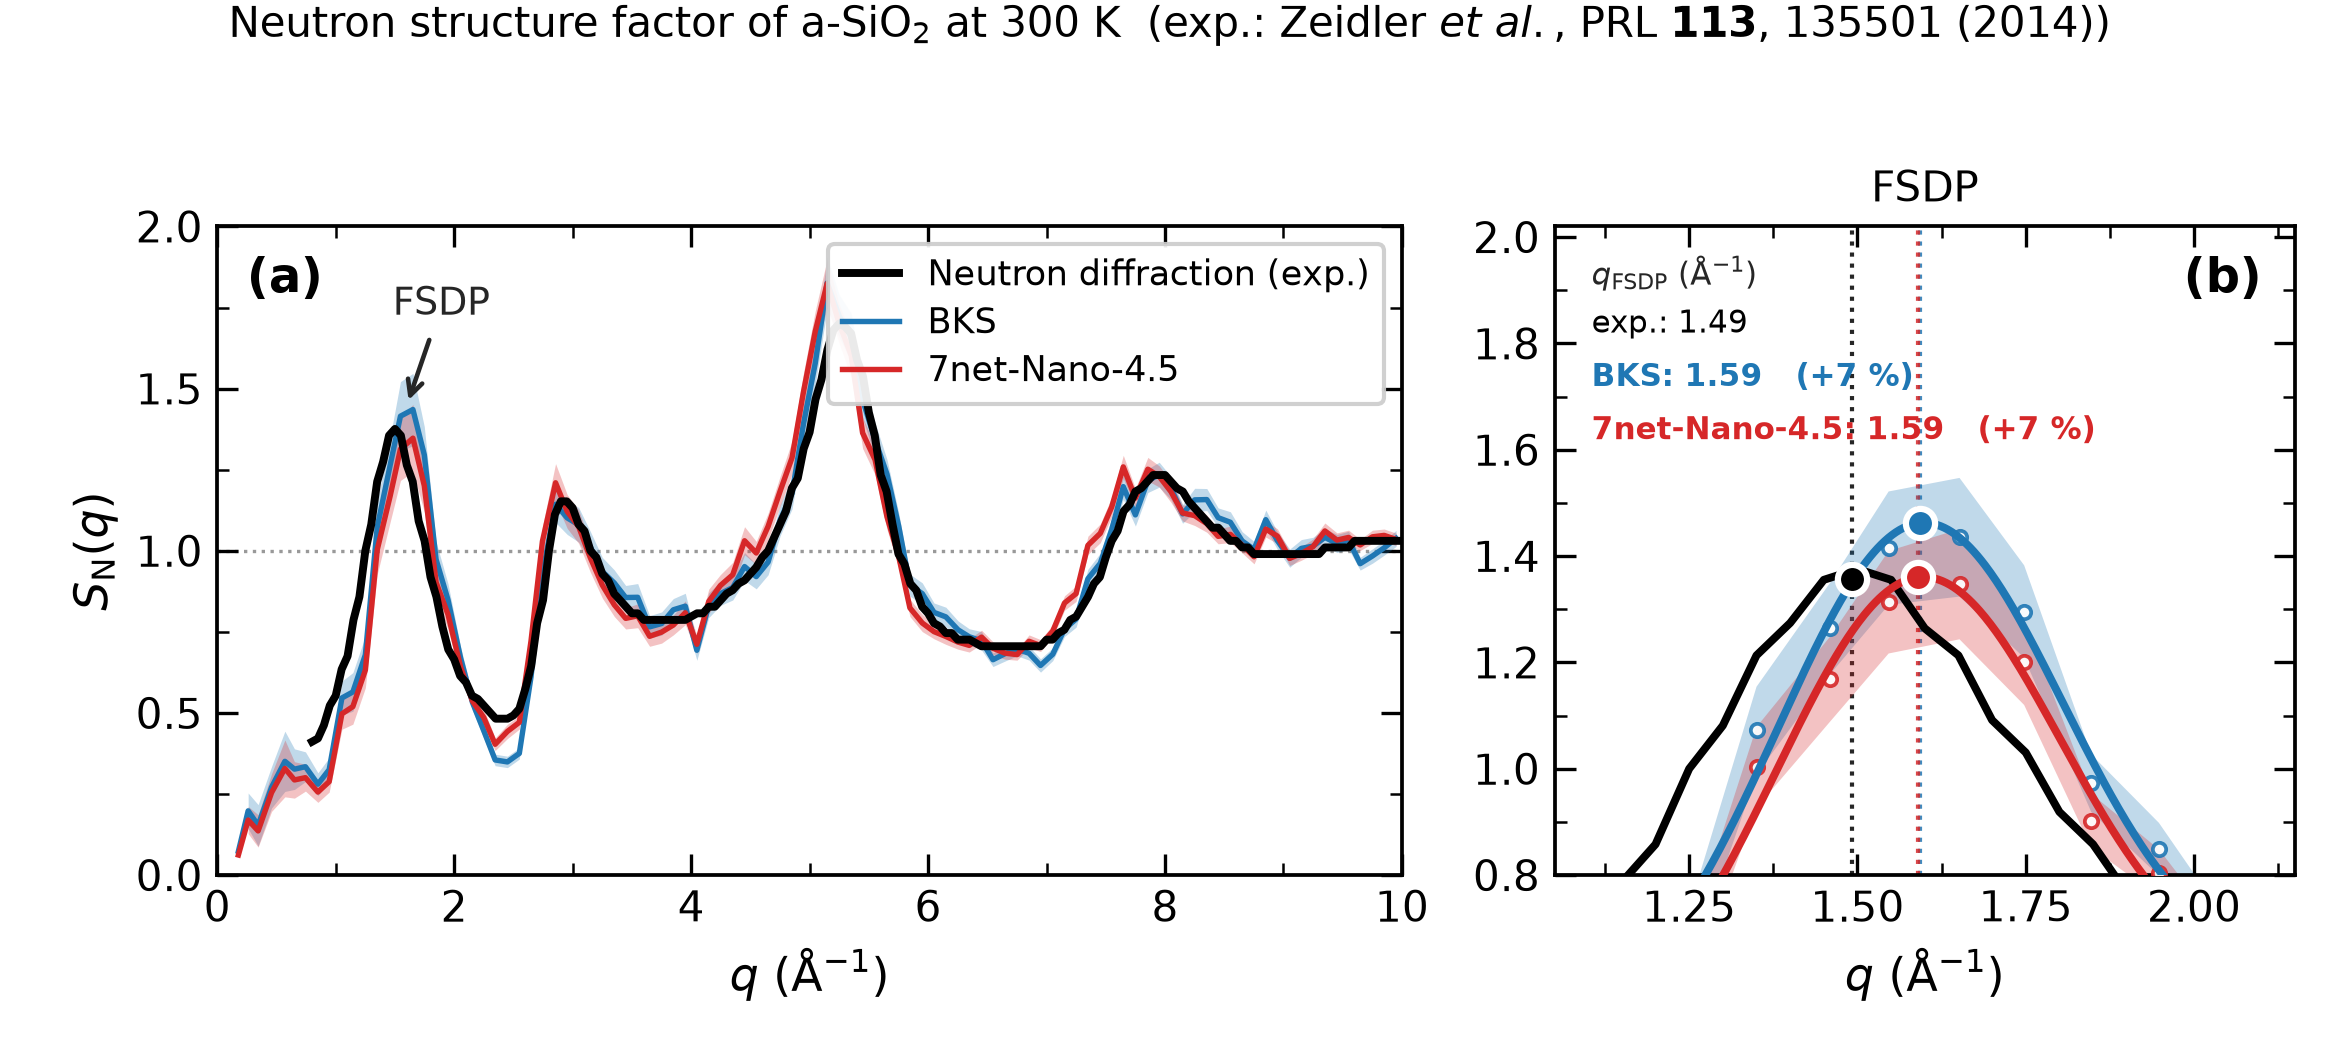
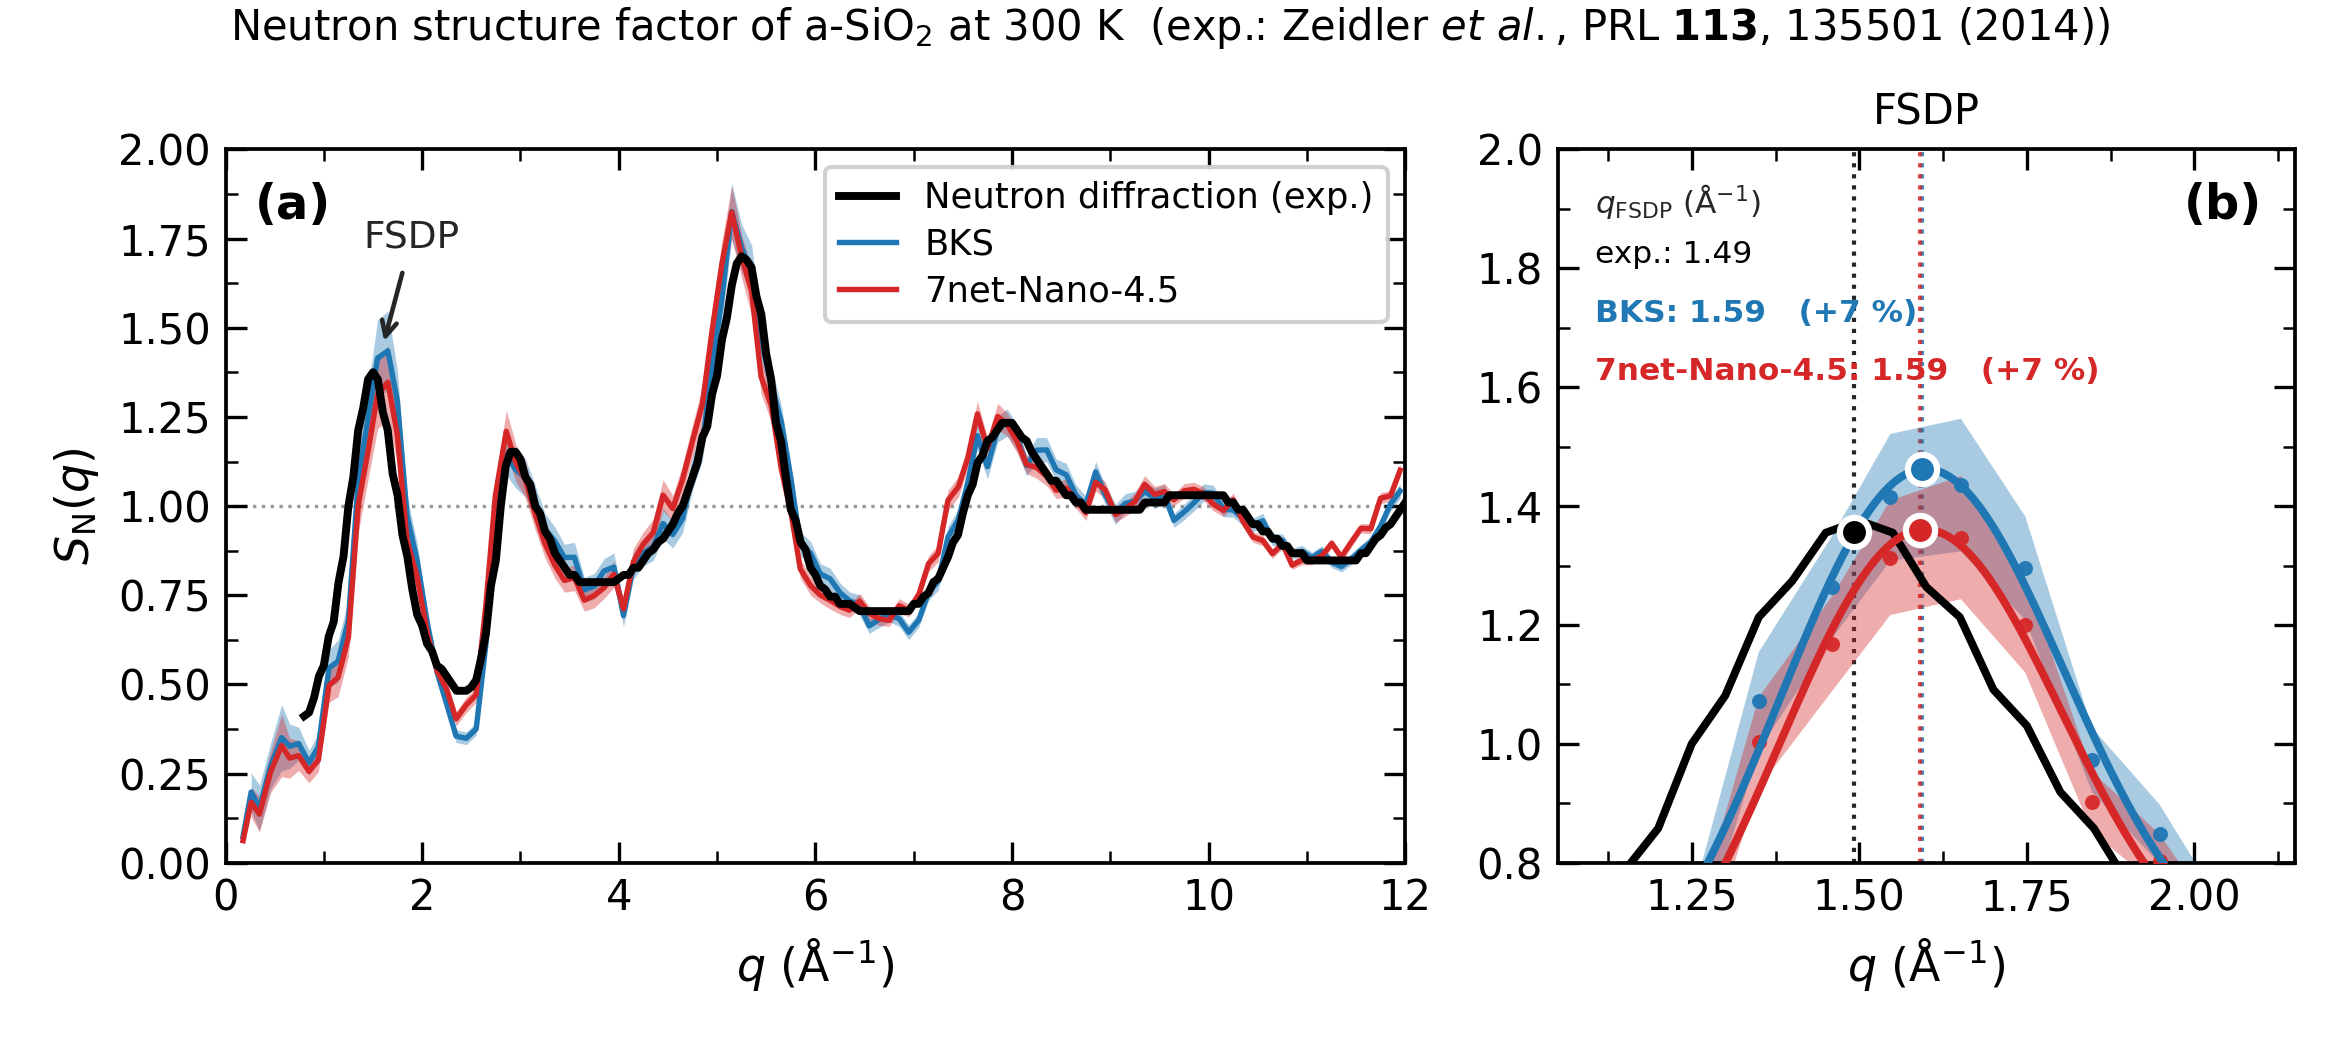
Consistency audit after the tail-on switch: found a v1 leak into RESULTS
Swept the repo for anything left stale by the tail-off -> tail-on change and by
the earlier rho=2.607 -> 2.20 restart. Five real problems.

1. fig_density.py's docstring still said "reported values are tail OFF" while
   the code reads ev_bks_scan_tail.txt. The file contradicted itself. Rewrote
   the docstring to state the tail-on grounds and to record that the original
   tail-off justification was circular.

2. RESULTS.md "lessons" section still claimed BKS is 5x more accurate on K0.
   With the tail on it is 2.7x. Fixed.

3. THE REAL FIND: RESULTS.md section 3(b) -- "the density drop is entirely
   explained by bond length, predicted -4.28 % vs measured -4.31 %, agreeing to
   0.03 %p" -- was carrying numbers from the DISCARDED rho=2.607 work
   (s2_relax/NOTE.md S2-3). There the comparison was Si-O 1.6123 -> 1.6360 with
   density 2.6071 -> 2.4948, i.e. the same structure relaxed by 7net at two
   volumes at 0 K. That is a clean apples-to-apples test and the claim was
   sound in its own context.

   The current section 3(b) is a completely different comparison: 300 K MD g(r)
   peak positions against 0 K equilibrium densities of two different potentials.
   The v1 numbers do not transfer. Recomputed honestly:

       prediction from mean Si-O (1.6147 -> 1.6369)   -4.01 %
       prediction from peak Si-O (1.605  -> 1.635 )   -5.40 %
       measured (2.3442 -> 2.2185)                    -5.36 %

   So the prediction swings 1.4 %p depending on which equally arbitrary
[…]

diff --git a/04_analysis/src/fig_sq.py b/04_analysis/src/fig_sq.py
@@ -56,7 +56,7 @@ from matplotlib.ticker import AutoMinorLocator
 ROOT = Path(__file__).resolve().parents[2]
 FIG = ROOT / "04_analysis/fig"; FIG.mkdir(exist_ok=True)
 
-QMAX_PLOT = 10.0        # sq_direct.py 의 qmax 와 맞출 것 (그 이상은 데이터가 없다)
+QMAX_PLOT = 12.0        # sq_direct.py 의 qmax 와 맞출 것 (그 이상은 데이터가 없다)
 
 plt.rcParams.update({
     "font.size": 10, "axes.labelsize": 11, "xtick.labelsize": 10, "ytick.labelsize": 10,
@@ -122,13 +122,14 @@ def draw(axis, mode="raw"):
         if e is not None:
             ok = np.isfinite(e)
             axis.fill_between(q[ok], (s - e)[ok], (s + e)[ok],
-                              color=c, alpha=0.28, lw=0, zorder=z - 1)
+                              color=c, alpha=0.38, lw=0, zorder=z - 1)
         if mode == "raw" or c == "k":
             axis.plot(q, s, "-", c=c, lw=lw, label=lab, zorder=z)
         else:
             m = (q > FIT_LO - 0.15) & (q < FIT_HI + 0.15)
-            axis.plot(q[m], s[m], "o", ms=3.2, mfc="w", mec=c, mew=0.9,
-                      alpha=0.9, zorder=z)
+            # 데이터 점: 테두리 없이 면색만 (곡선과 같은 색) — 피팅 곡선을 덜 가린다
+            axis.plot(q[m], s[m], "o", ms=3.6, mfc=c, mec="none",
+                      alpha=0.95, zorder=z)
             axis.plot(QFIT, gmodel(QFIT, *pk[lab][3]), "-", c=c, lw=1.9, zorder=z + 1)
 
 
@@ -151,7 +152,7 @@ for lab, c, *_ in SET:
     qp, _, sp = pk[lab][:3]
     b.plot([qp], [sp], "o", ms=7, mfc=c, mec="w", mew=1.5, zorder=6)
     b.axvline(qp, ls=":", lw=1.0, c=c, alpha=0.85, zorder=1)
-b.set_xlim(1.05, 2.15); b.set_ylim(0.80, 2.02)
+b.set_xlim(1.05, 2.15); b.set_ylim(0.80, 2.0)
 b.set_xlabel(r"$q$ ($\rm\AA^{-1}$)")
 b.set_title("FSDP", fontsize=10)
 b.text(0.955, 0.955, "(b)", transform=b.transAxes, fontsize=11.5,
@@ -175,7 +176,7 @@ for a_ in ax:
 fig.suptitle("Neutron structure factor of a-SiO$_2$ at 300 K  "
              "(exp.: Zeidler $et\\ al.$, PRL $\\bf 113$, 135501 (2014))",
              fontsize=10, y=0.995)
-fig.tight_layout(rect=[0, 0, 1, 0.965])
+fig.tight_layout(rect=[0, 0, 1, 1.05])
 fig.savefig(FIG / "fig_sq.png", dpi=300)
 print(f"-> {FIG}/fig_sq.png\n")
 
